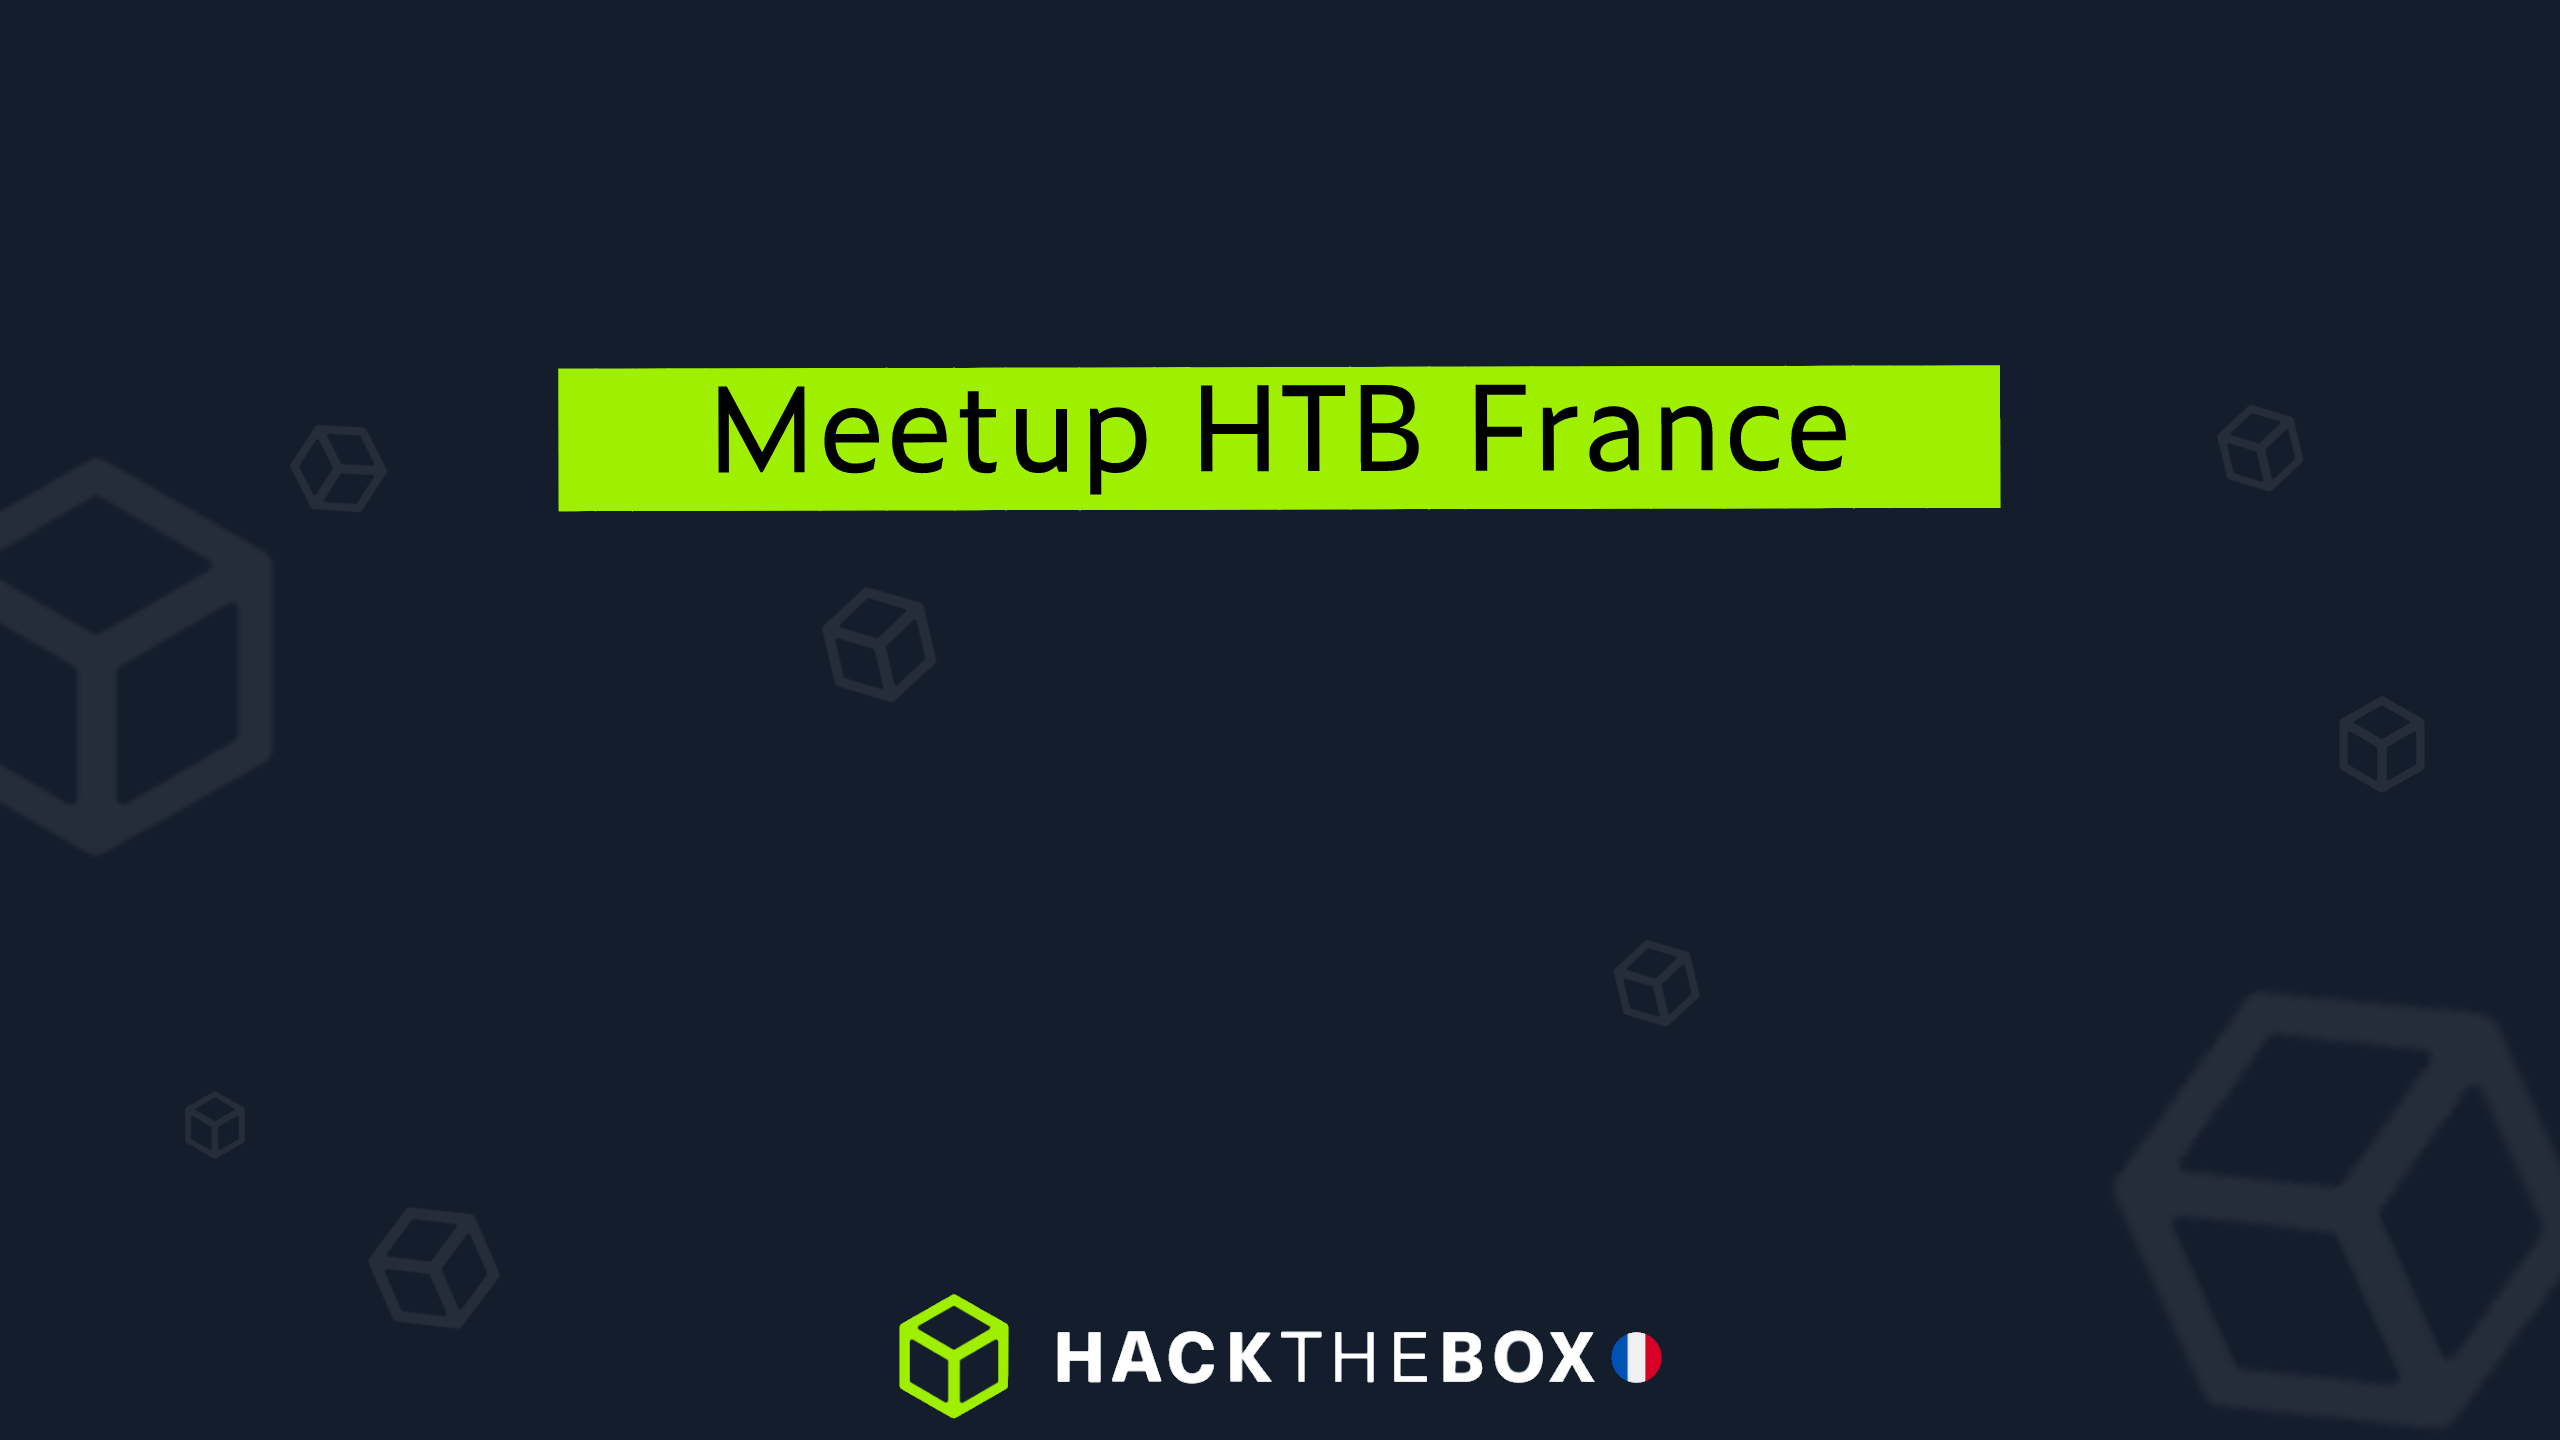
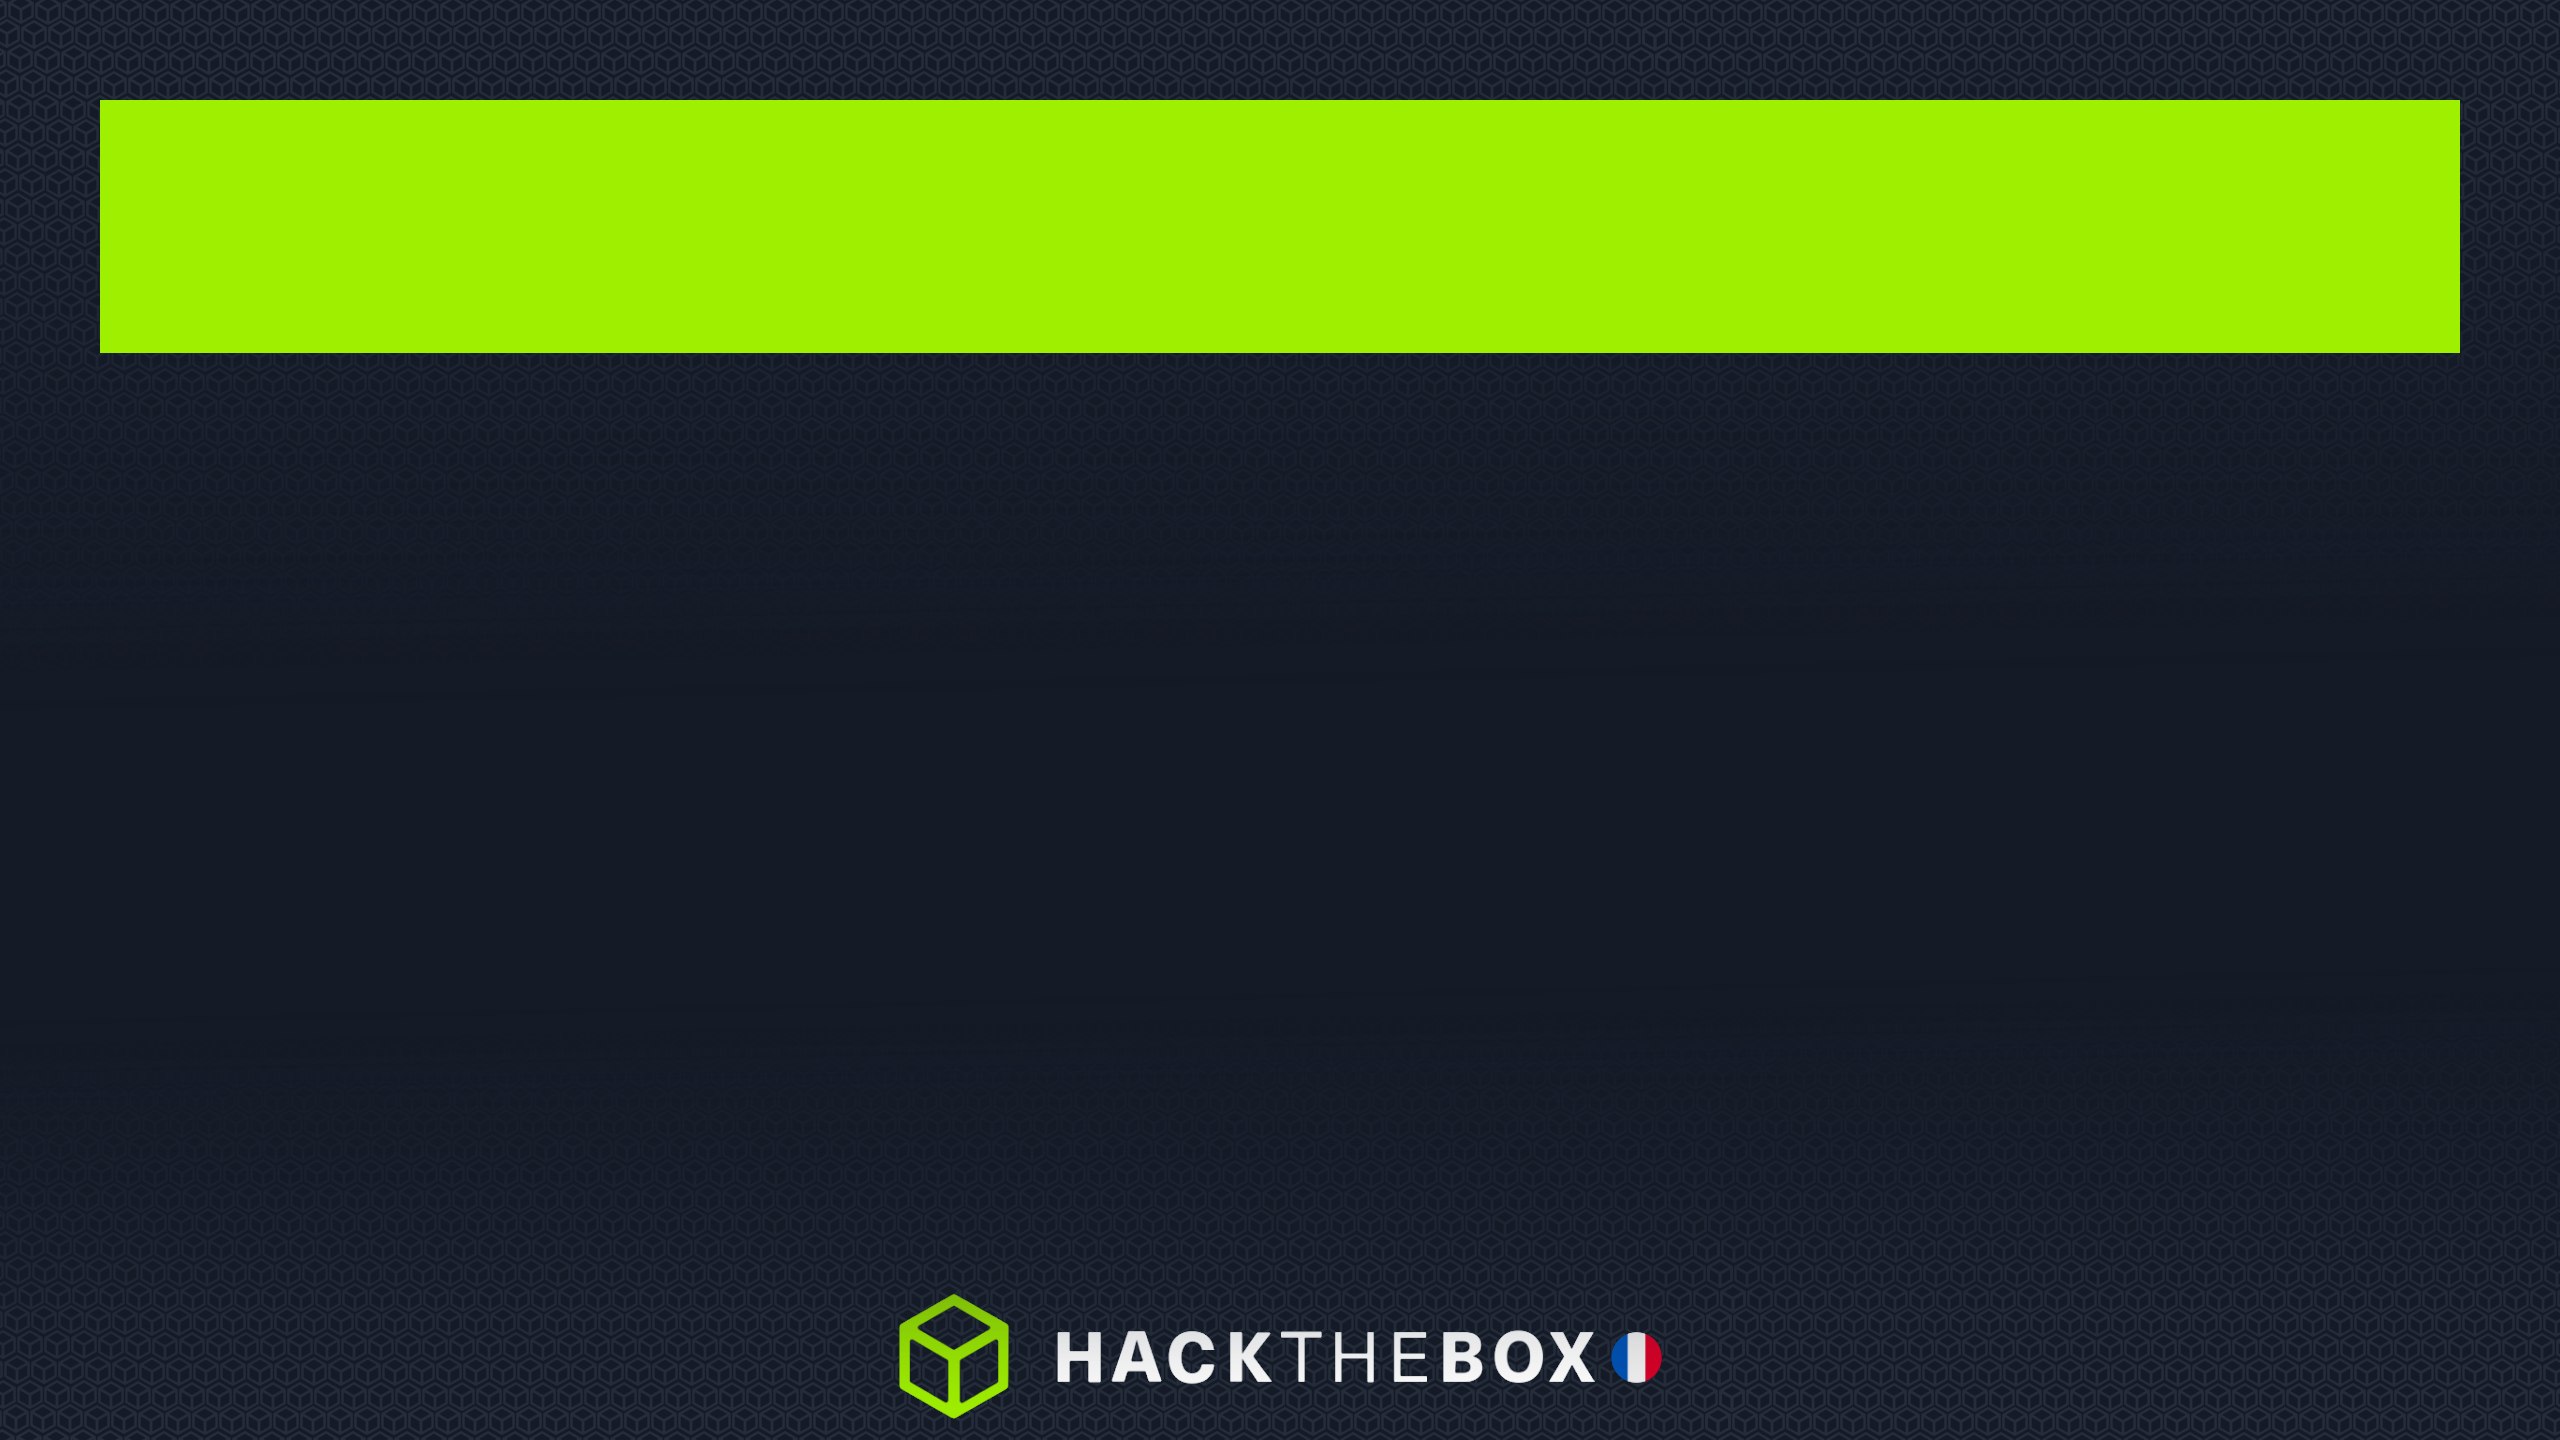
updated background.png, adjusted box igm positions

Changed region(s): [[0.0312, 0.0625, 0.9688, 0.375], [0.3438, 0.9062, 0.4062, 0.9375], [0.4375, 0.9062, 0.4688, 0.9375]]

diff --git a/Meetup/Gen_Thumbnails.py b/Meetup/Gen_Thumbnails.py
@@ -64,13 +64,13 @@ width = 2560
 height = 1440
 background = Image.open('background.png')
 
-font1 = ImageFont.truetype("Zeitung_Micro_Pro.ttf", 190)
+font1 = ImageFont.truetype("Zeitung_Micro_Pro.ttf", 170)
 font2 = ImageFont.truetype("Zeitung_Micro_Pro.ttf", 80)
 
-meetup = f"OSCP-Like {args.num_meetup}"
+meetup = f"Meetup HTB France {args.num_meetup}"
 draw = ImageDraw.Draw(background)
 w, h = draw.textsize(meetup, font=font1)
-draw.text(((width-w)/2, 50), meetup, (255,255,255), font=font1)
+draw.text(((width-w)/2, 80), meetup, (20,29,44), font=font1)
 
 #-------------------------------------------------------------
 # Box
@@ -85,22 +85,22 @@ if args.machine3 != None:
     im3 = Image.open(requests.get(base_url + m3_avatar, headers=headers, stream=True).raw)
 
 if len(sys.argv)==5:
-    draw.text(((width-w1)/2, 900), machine1, (255,255,255), font=font2)
-    background.paste(im1, (int((width-300)/2), 570), im1)
+    draw.text(((width-w1)/2, 925), machine1, (255,255,255), font=font2)
+    background.paste(im1, (int((width-300)/2), 625), im1)
 
 if len(sys.argv)==7:
-    draw.text((800 - (w1/2), 900), machine1, (255,255,255), font=font2)
-    background.paste(im1, (650, 570), im1)
-    draw.text((1760 - (w2/2), 900), machine2, (255,255,255), font=font2)
-    background.paste(im2, (1605, 570), im2)
+    draw.text((800 - (w1/2), 925), machine1, (255,255,255), font=font2)
+    background.paste(im1, (650, 625), im1)
+    draw.text((1760 - (w2/2), 925), machine2, (255,255,255), font=font2)
+    background.paste(im2, (1605, 625), im2)
 
 if len(sys.argv)==9:
-    draw.text((565 - (w1/2), 830), machine1, (255,255,255), font=font2)
-    background.paste(im1, (415, 500), im1)
-    draw.text((1280 - (w2/2), 830), machine2, (255,255,255), font=font2)
-    background.paste(im2, (1130, 500), im2)
-    draw.text((1995 - (w3/2), 830), machine3, (255,255,255), font=font2)
-    background.paste(im3, (1845, 500), im3)
+    draw.text((565 - (w1/2), 925), machine1, (255,255,255), font=font2)
+    background.paste(im1, (415, 625), im1)
+    draw.text((1280 - (w2/2), 925), machine2, (255,255,255), font=font2)
+    background.paste(im2, (1130, 625), im2)
+    draw.text((1995 - (w3/2), 925), machine3, (255,255,255), font=font2)
+    background.paste(im3, (1845, 625), im3)
 
 #-------------------------------------------------------------
 background.save(f'{args.num_meetup}.png')
